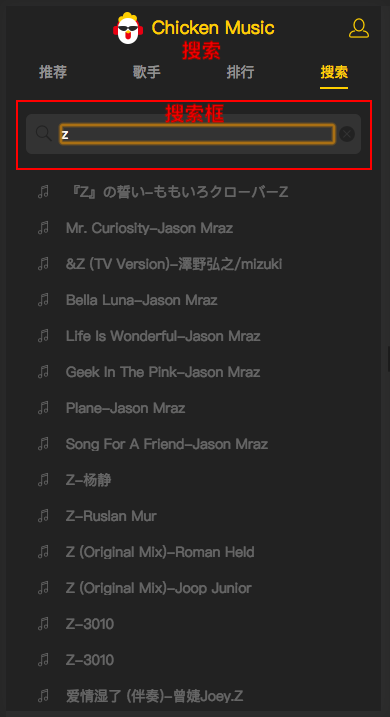
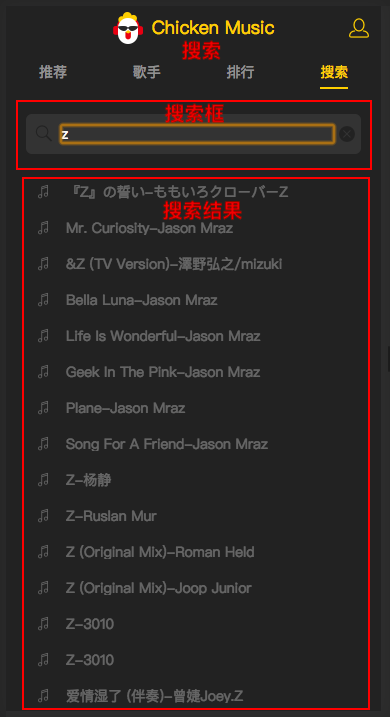
10-4 搜索界面: 搜索功能

Changed region(s): [[0.0615, 0.2455, 0.9538, 1.0], [0.0308, 0.2455, 0.0615, 0.9819], [0.4, 0.2762, 0.6154, 0.3068]]

diff --git a/src/components/suggest/suggest.vue b/src/components/suggest/suggest.vue
@@ -1,4 +1,5 @@
 <template>
+  <!-- 搜索结果 -->
   <scroll
     ref="suggest"
     class="suggest"
@@ -80,13 +81,20 @@
         this.hasMore = true
         // 滚动到顶部
         this.$refs.suggest.scrollTo(0, 0)
-        search(this.query, this.page, this.showSinger, perpage).then(res => {
-          if (res.code === ERR_OK) {
-            this.result = this._genResult(res.data)
-            // 是否有多余数据
-            this._checkMore(res.data)
-          }
-        })
+        /**
+         * @param query 检索值
+         * @param page 检索第几页
+         * @param showSinger 要歌手这个数据吗？
+         * @param perpage: 每页返回的个数
+         */
+        search(this.query, this.page, this.showSinger, perpage)
+          .then(res => {
+            if (res.code === ERR_OK) {
+              this.result = this._genResult(res.data)
+              // 是否有多余数据
+              this._checkMore(res.data)
+            }
+          })
       },
       // 下拉刷新处理函数
       searchMore () {
@@ -141,6 +149,7 @@
       _genResult (data) {
         let ret = []
         if (data.zhida && data.zhida.singerid) {
+          // type: 区分搜索结果数据是歌手还是歌曲
           ret.push({...data.zhida, ...{type: TYPE_SINGER}})
         }
         if (data.song) {
@@ -172,7 +181,9 @@
       ])
     },
     watch: {
+      // query: 检索值
       query (newQuery) {
+        // 请求服务端api/search.js
         this.search(newQuery)
       }
     },

diff --git a/src/components/search/search.vue b/src/components/search/search.vue
@@ -84,7 +84,8 @@
     mixins: [playlistMixin, searchMixin],
     data () {
       return {
-        hotKey: []
+        hotKey: [],
+        query: ''
       }
     },
     computed: {

diff --git a/README.md b/README.md
@@ -435,7 +435,7 @@ cnpm install lyric-parser
 
 
 ## 10-4
-### 搜索歌曲功能
+### 搜索界面: 搜索功能
 
 
 ## 10-5
